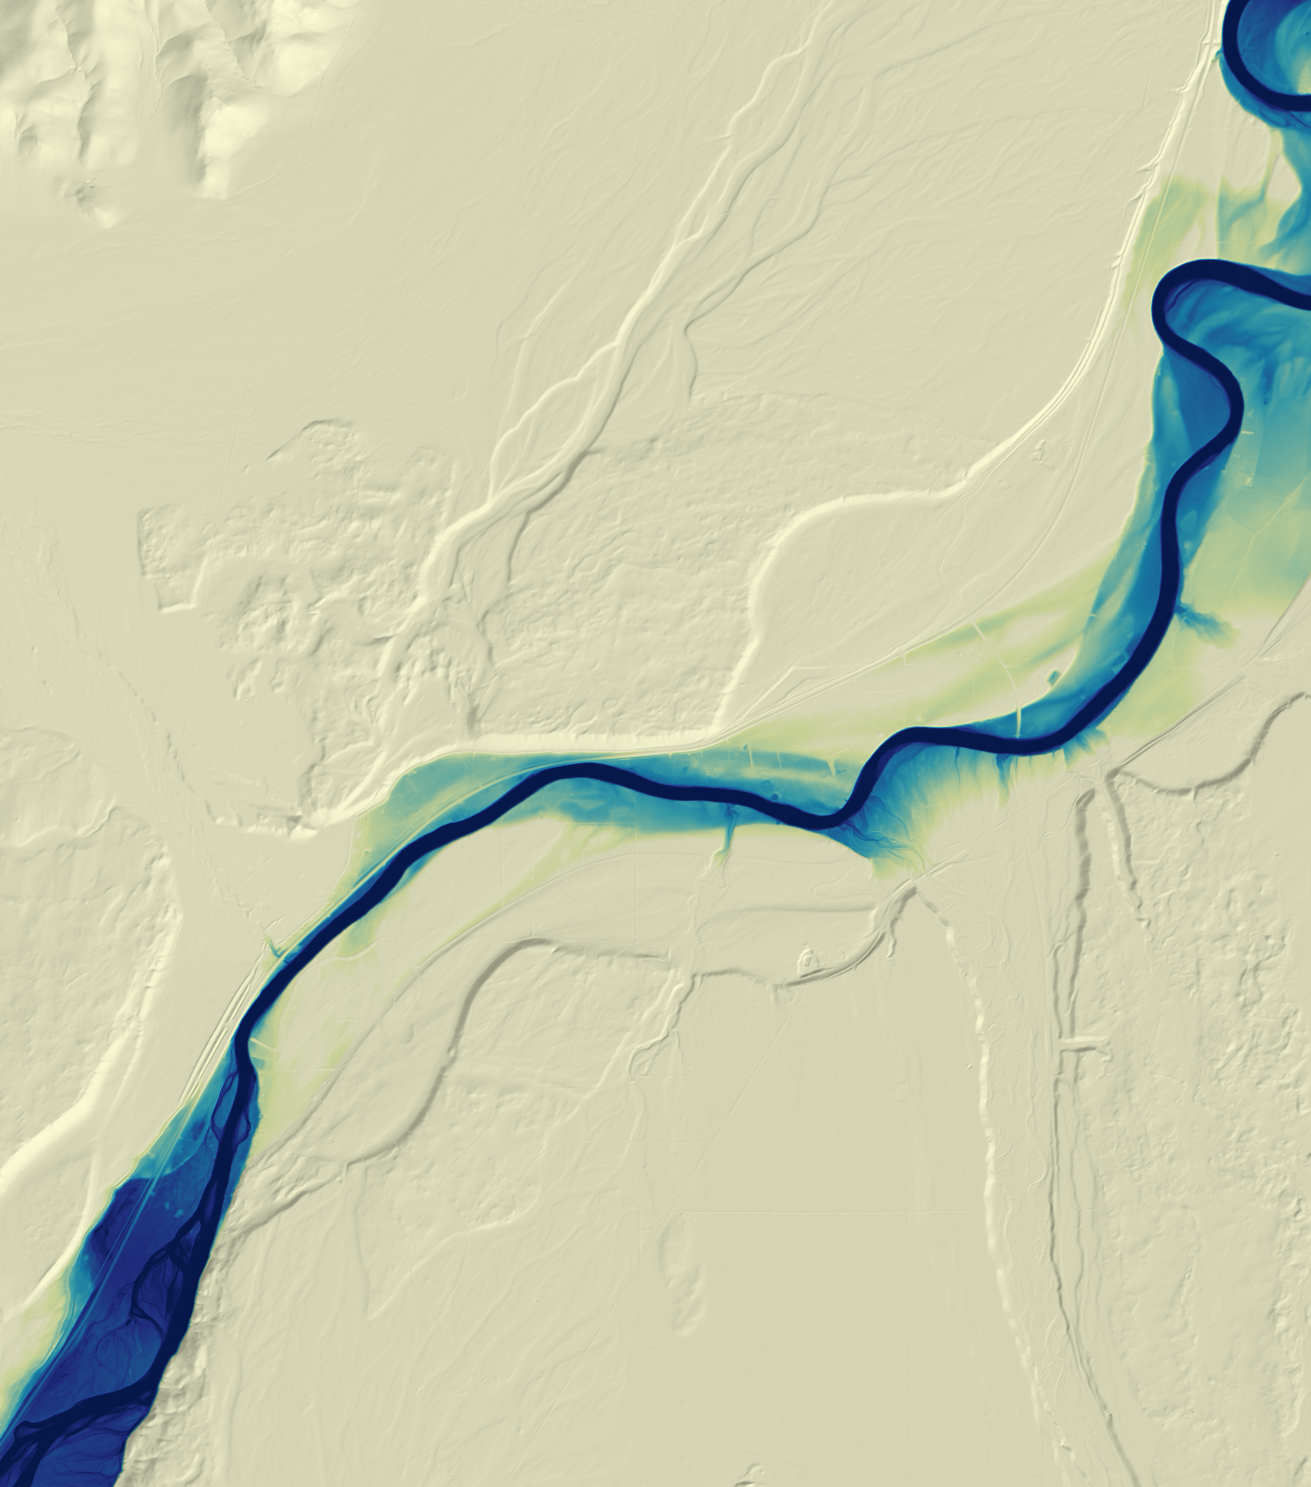
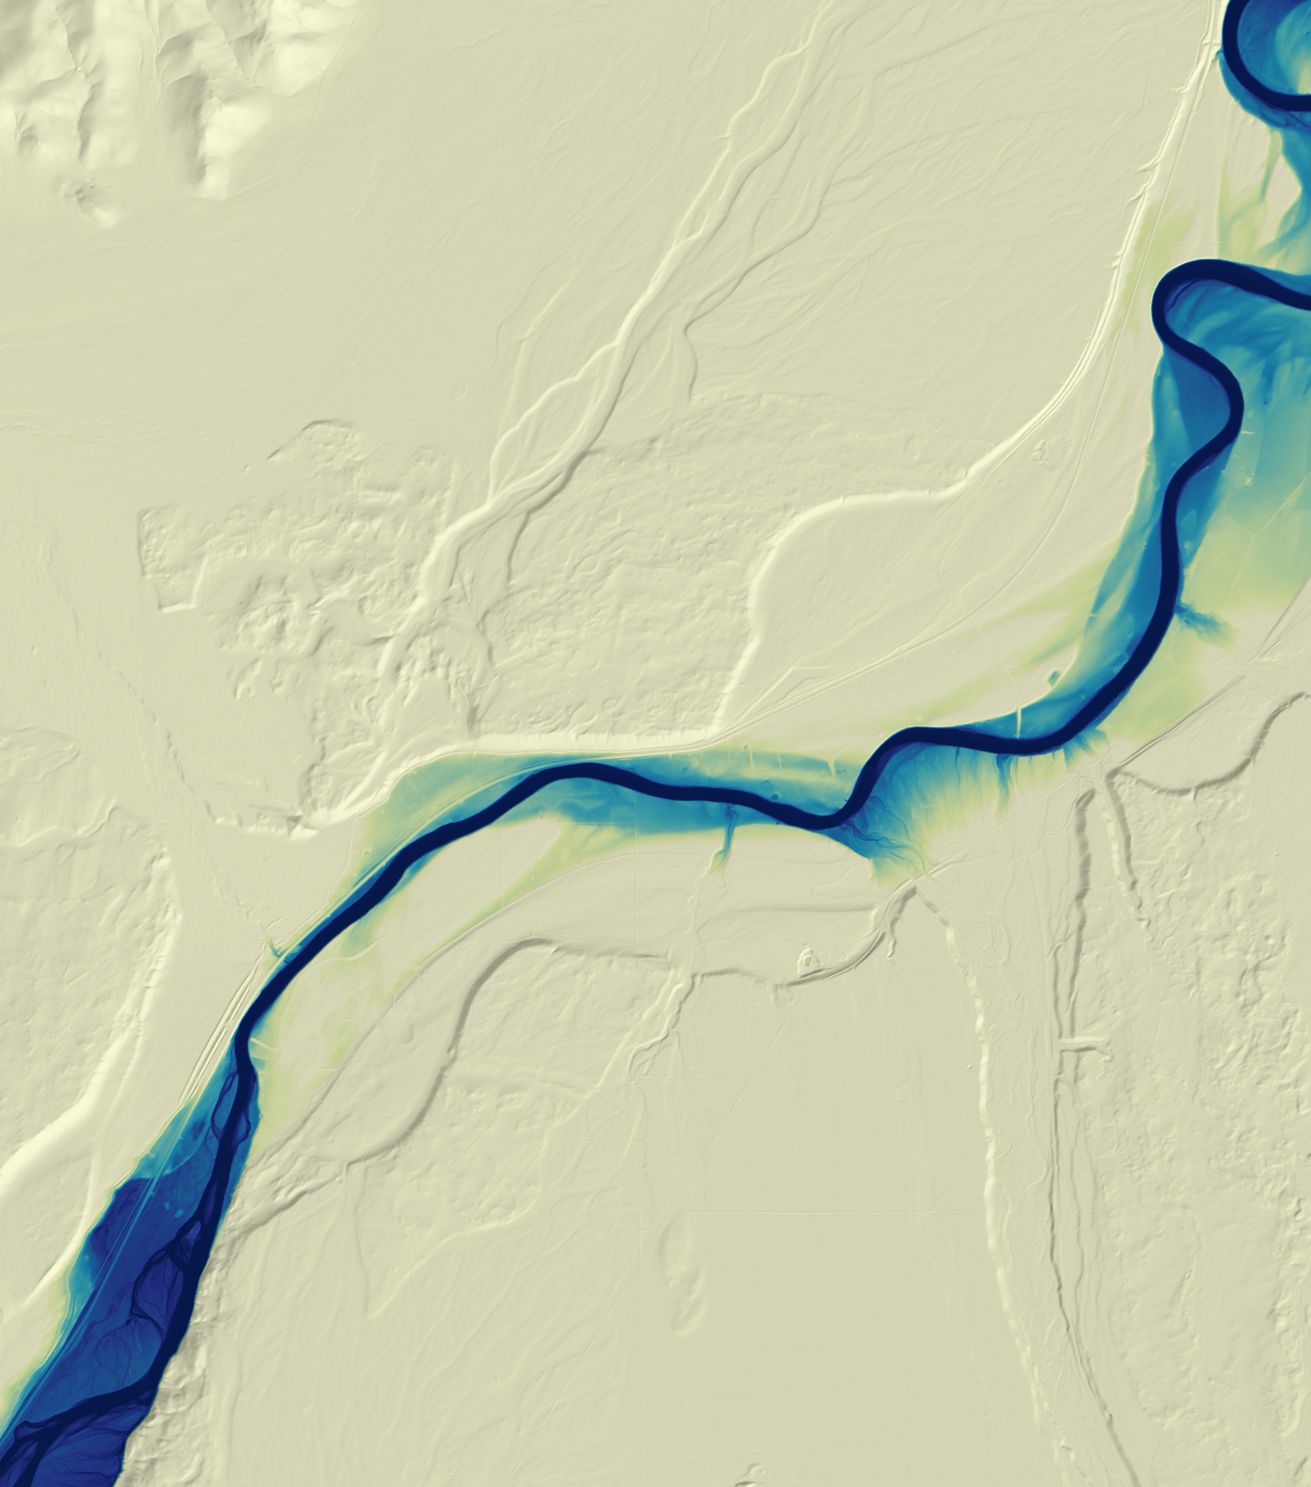
rem: seamless water surface on wide and braided valleys
- IDW over every river sample by default (k=None); k-nearest switching
  produced bands far from the channel
- fit the valley trend plane first and interpolate residuals
- downhill-only river profile, 15 m search window for the water surface
- regenerate the Yellowstone example image

diff --git a/src/earthfetch/_rem.py b/src/earthfetch/_rem.py
@@ -31,7 +31,7 @@ from .utils import logger
 #: on a grid this size and resampled to full resolution
 _BASE_CELLS = 250_000
 #: at most this many river samples feed the interpolation
-_MAX_POINTS = 5_000
+_MAX_POINTS = 2_000
 
 
 def _river_geometry(river, aoi) -> tuple[dict, str | None, str]:
@@ -114,14 +114,44 @@ def _sample_profile(dem: np.ndarray, transform, pts: np.ndarray,
         win = dem[max(0, row - r):row + r + 1, max(0, col - r):col + r + 1]
         vals = win[np.isfinite(win)]
         if vals.size:
-            out[i] = np.percentile(vals, 10)
+            out[i] = np.percentile(vals, 5)
     return out
 
 
+def _downhill(z: np.ndarray) -> np.ndarray:
+    """Force a river profile to never rise downstream.
+
+    Water can't flow uphill, so any bump in the sampled profile is a gravel
+    bar, levee, bridge, or vegetation return, not the water surface. The
+    downstream end is whichever end is lower; a running minimum from the
+    upstream end then removes every bump.
+    """
+    if z.size < 2:
+        return z
+    n = max(1, z.size // 10)
+    if np.nanmedian(z[:n]) < np.nanmedian(z[-n:]):
+        return np.minimum.accumulate(z[::-1])[::-1]
+    return np.minimum.accumulate(z)
+
+
 def _idw(xy: np.ndarray, z: np.ndarray, qx: np.ndarray, qy: np.ndarray,
-         k: int, power: float) -> np.ndarray:
-    """Inverse-distance-weighted values of (xy, z) at query points."""
+         k: int | None, power: float) -> np.ndarray:
+    """Inverse-distance-weighted values of (xy, z) at query points.
+
+    ``k=None`` weights every sample, which keeps the surface continuous;
+    a k-nearest search is faster but steps wherever the neighbour set
+    changes, which shows up as bands far from the river.
+    """
     q = np.column_stack([qx.ravel(), qy.ravel()])
+    if k is None or k >= len(z):
+        vals = np.empty(len(q))
+        step = max(1, 20_000_000 // max(1, len(xy)))
+        for s in range(0, len(q), step):
+            d = np.hypot(q[s:s + step, 0, None] - xy[None, :, 0],
+                         q[s:s + step, 1, None] - xy[None, :, 1])
+            wts = 1.0 / np.maximum(d, 1e-6) ** power
+            vals[s:s + step] = (wts @ z) / wts.sum(axis=1)
+        return vals.reshape(qx.shape)
     k = min(k, len(z))
     try:
         from scipy.spatial import cKDTree
@@ -152,8 +182,8 @@ def rem(
     res: float | None = None,
     source: str = "auto",
     spacing: float | None = None,
-    k: int = 48,
-    power: float = 2.0,
+    k: int | None = None,
+    power: float = 3.0,
     clip: bool | None = None,
 ) -> xarray.Dataset:
     """Relative Elevation Model for any AOI in one call.
@@ -174,7 +204,10 @@ def rem(
     crs, res : output grid (defaults: the AOI's UTM zone, native DEM pixel).
     spacing : distance between river samples in CRS units (default: 3
         pixels).
-    k, power : inverse-distance weighting neighbours and exponent.
+    k, power : inverse-distance weighting: ``k`` nearest river samples
+        (default ``None``, all of them, for a seamless surface) and the
+        distance exponent. A down-valley trend plane is fitted first, so
+        the surface keeps sloping with the valley far from the channel.
     clip : NaN-out pixels outside a polygon AOI.
 
     Returns
@@ -211,12 +244,15 @@ def rem(
         if len(line) < 2:
             continue
         pts = _densify(line, spacing)
-        prof = _sample_profile(z, transform, pts, radius_px=2)
+        # search ~15 m around each sample: mapped centerlines drift off the
+        # wetted channel by that much, and a low percentile finds the water
+        radius = max(2, int(round(15.0 / pixel)))
+        prof = _sample_profile(z, transform, pts, radius_px=radius)
         keep = np.isfinite(prof)
         if keep.sum() < 2:
             continue
         pts, prof = pts[keep], prof[keep]
-        prof = _rolling_median(prof, window=7)
+        prof = _downhill(_rolling_median(prof, window=7))
         pts_list.append(pts)
         prof_list.append(prof)
     if not pts_list:
@@ -238,7 +274,29 @@ def rem(
     coarse_tf = transform * Affine.scale(factor)
     cols, rows = np.meshgrid(np.arange(cw) + 0.5, np.arange(ch) + 0.5)
     qx, qy = coarse_tf * (cols, rows)
-    coarse = _idw(xy, zs, qx, qy, k=k, power=power).astype("float32")
+    # IDW alone drifts toward the mean river elevation far from the channel,
+    # ignoring the valley's slope. Fit that slope as a plane, spread only the
+    # residuals, and add the plane back. A nearly straight river can't
+    # constrain a cross-valley tilt, so then only the down-valley slope along
+    # its main axis is fitted.
+    center = xy.mean(axis=0)
+    _, spread, axes = np.linalg.svd(xy - center, full_matrices=False)
+    uv = (xy - center) @ axes.T
+    keep = [0] if spread[1] < 0.05 * spread[0] else [0, 1]
+    design = np.column_stack([uv[:, keep], np.ones(len(zs))])
+    coef = np.linalg.lstsq(design, zs, rcond=None)[0]
+    lo, hi = uv[:, 0].min(), uv[:, 0].max()
+
+    def trend(x, y):
+        # down-valley position is clamped to the sampled reach: past the
+        # river's ends the slope is unknown, so hold the end value
+        pts = np.stack([x - center[0], y - center[1]], axis=-1) @ axes.T
+        pts[..., 0] = np.clip(pts[..., 0], lo, hi)
+        return sum(coef[i] * pts[..., a] for i, a in enumerate(keep)) + coef[-1]
+
+    resid = zs - trend(xy[:, 0], xy[:, 1])
+    coarse = (trend(qx, qy)
+              + _idw(xy, resid, qx, qy, k=k, power=power)).astype("float32")
 
     base = np.full((h, w), np.nan, dtype="float32")
     reproject(source=coarse, destination=base,

diff --git a/CHANGELOG.md b/CHANGELOG.md
@@ -7,8 +7,9 @@ Radar, polar elevation, and floodplain mapping (all additive, non-breaking).
 ### Added
 - **`ef.rem()`: Relative Elevation Models in one call.** Downloads the DEM,
   finds the main river (USGS NHD in the US, OpenStreetMap worldwide), samples
-  its water surface with bridge/spike filtering, interpolates it across the
-  valley (inverse distance weighting), and returns `rem`, `dem`,
+  its water surface (bridge/spike filtering, downhill-only profile),
+  interpolates it across the valley (detrended inverse distance weighting
+  over every river sample, so no banding far from the channel), and returns `rem`, `dem`,
   `water_surface`, and `hillshade` on one grid. Pick a river by name or pass
   your own centerline. Also on the CLI: `earthfetch rem --bbox ... --png`.
 - **`ef.river_centerline()`**: the main river through any AOI as GeoJSON.
